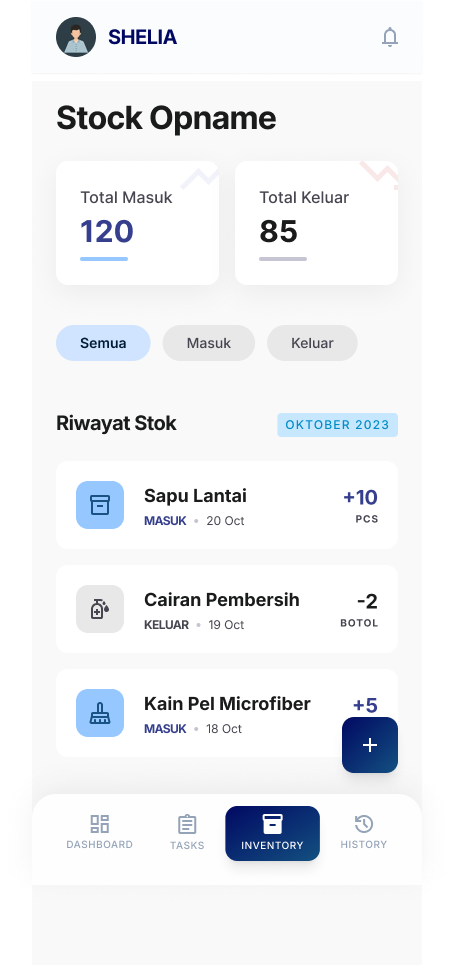
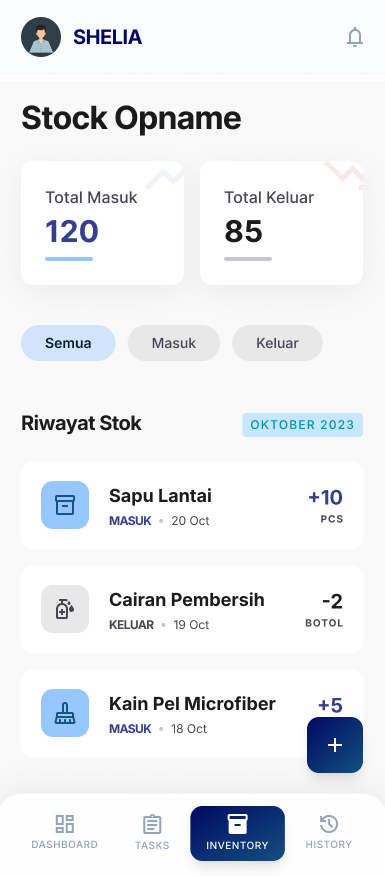
Fixing Content

diff --git a/src/components/assets/phoneFrame/PhoneFrame.jsx b/src/components/assets/phoneFrame/PhoneFrame.jsx
@@ -13,11 +13,11 @@ export const PhoneFrame = ({ children, screenshot }) => {
         <div className="absolute left-1/2 top-0 z-40 h-4 w-20 -translate-x-1/2 rounded-b-xl bg-slate-900 lg:h-8 lg:w-28 xl:h-5 xl:w-20"></div>
 
         {/* Screen */}
-        <div className="relative h-full w-full overflow-hidden rounded-[1.8rem] bg-white pt-4 lg:rounded-[2.8rem] xl:rounded-[2.2rem]">
+        <div className="relative h-full w-full overflow-hidden rounded-[1.8rem] bg-red-500 pt-4 lg:rounded-[2.8rem] xl:rounded-[2.2rem]">
           <img
             src={screenshot}
             alt="App Screenshot"
-            className="h-full w-full object-cover object-center"
+            className="h-full w-full object-cover object-top"
           />
           <div className="absolute inset-0 z-30">{children}</div>     
         </div>
